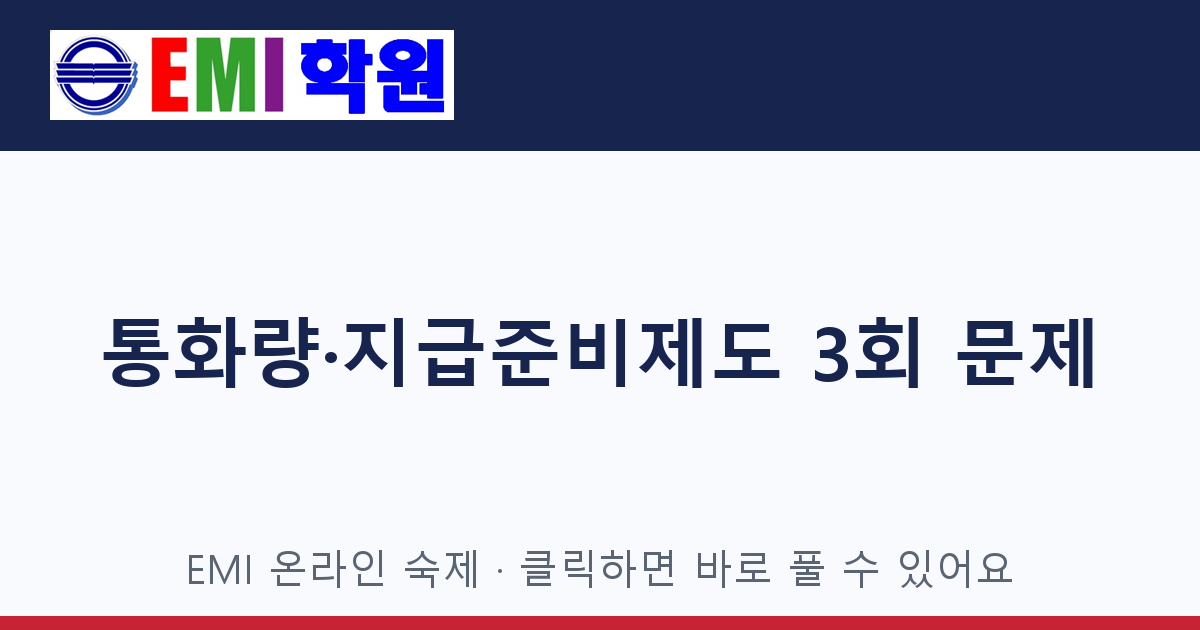
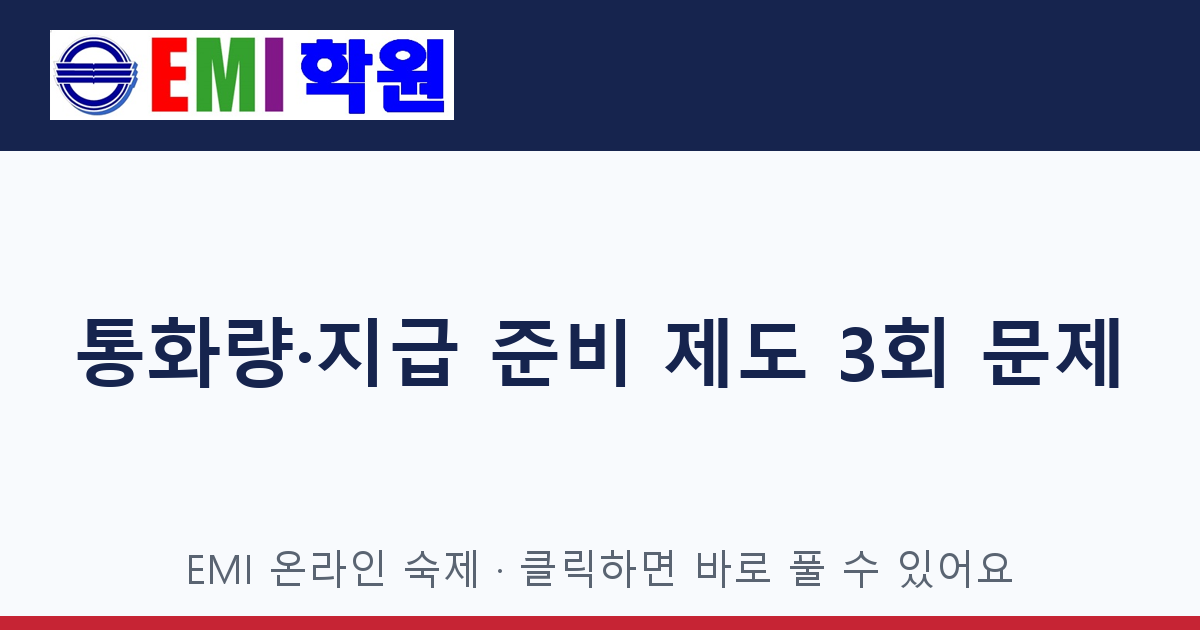
cards: tong3

Changed region(s): [[0.5242, 0.4825, 0.9558, 0.6333], [0.0617, 0.4825, 0.4008, 0.6333]]

diff --git a/tong3.html b/tong3.html
@@ -1,20 +1,20 @@
 <!doctype html><html lang="ko"><head><meta charset="utf-8">
 <meta name="viewport" content="width=device-width, initial-scale=1">
-<title>통화량·지급준비제도 3회 숙제</title>
+<title>통화량·지급 준비 제도 3회 숙제 (변형 1~10번)</title>
 <meta name="description" content="EMI 온라인 숙제 · 클릭하면 바로 풀 수 있어요 (제출 결과는 선생님에게 전송됩니다)">
 <meta property="og:type" content="website">
-<meta property="og:title" content="통화량·지급준비제도 3회 숙제">
+<meta property="og:title" content="통화량·지급 준비 제도 3회 숙제 (변형 1~10번)">
 <meta property="og:description" content="EMI 온라인 숙제 · 클릭하면 바로 풀 수 있어요 (제출 결과는 선생님에게 전송됩니다)">
 <meta property="og:image" content="https://yanga1052-del.github.io/emi-hw-preview/img/tong3.png">
 <meta property="og:url" content="https://yanga1052-del.github.io/emi-hw-preview/tong3.html">
 <meta name="twitter:card" content="summary_large_image">
-<meta name="twitter:title" content="통화량·지급준비제도 3회 숙제">
+<meta name="twitter:title" content="통화량·지급 준비 제도 3회 숙제 (변형 1~10번)">
 <meta name="twitter:description" content="EMI 온라인 숙제 · 클릭하면 바로 풀 수 있어요 (제출 결과는 선생님에게 전송됩니다)">
 <meta name="twitter:image" content="https://yanga1052-del.github.io/emi-hw-preview/img/tong3.png">
 <meta http-equiv="refresh" content="0; url=https://script.google.com/macros/s/AKfycbyF3ateTjzvvQgbUPQ1zHatpe2qTKi0NUpeD05WZu_OVzvtxLwxgMTxlddT3Mv3tvPU/exec?hw=tong3">
 <style>body{font-family:'Malgun Gothic',sans-serif;background:#f6f8fb;color:#1a2432;display:flex;min-height:100vh;align-items:center;justify-content:center;margin:0}
 .card{background:#fff;border-radius:16px;box-shadow:0 8px 30px rgba(20,30,70,.12);padding:40px 44px;text-align:center;max-width:460px}
 h1{color:#16244e;font-size:22px;margin:.2em 0 .6em} p{color:#5a6472} a{display:inline-block;margin-top:18px;background:#16244e;color:#fff;text-decoration:none;padding:13px 26px;border-radius:10px;font-weight:bold}</style>
-</head><body><div class="card"><h1>통화량·지급준비제도 3회 숙제</h1><p>잠시 후 숙제 페이지로 이동합니다.<br>이동하지 않으면 아래 버튼을 눌러 주세요.</p>
+</head><body><div class="card"><h1>통화량·지급 준비 제도 3회 숙제 (변형 1~10번)</h1><p>잠시 후 숙제 페이지로 이동합니다.<br>이동하지 않으면 아래 버튼을 눌러 주세요.</p>
 <a href="https://script.google.com/macros/s/AKfycbyF3ateTjzvvQgbUPQ1zHatpe2qTKi0NUpeD05WZu_OVzvtxLwxgMTxlddT3Mv3tvPU/exec?hw=tong3">숙제 풀러 가기 →</a></div>
 <script>location.replace("https://script.google.com/macros/s/AKfycbyF3ateTjzvvQgbUPQ1zHatpe2qTKi0NUpeD05WZu_OVzvtxLwxgMTxlddT3Mv3tvPU/exec?hw=tong3");</script></body></html>

diff --git a/index.html b/index.html
@@ -19,7 +19,7 @@
 <li><a href="imdae3.html">임대차보호법 3회 숙제</a></li>
 <li><a href="tong1.html">통화량·지급 준비 제도 1회 숙제 (변형 1~10번)</a></li>
 <li><a href="tong2.html">통화량·지급 준비 제도 2회 숙제 (변형 1~10번)</a></li>
-<li><a href="tong3.html">통화량·지급준비제도 3회 숙제</a></li>
+<li><a href="tong3.html">통화량·지급 준비 제도 3회 숙제 (변형 1~10번)</a></li>
 <li><a href="suso3.html">수소 전기차 3회 숙제</a></li>
 <li><a href="theory1.html">공통국어2 작문 이론 [4회고사 대비] 1회 숙제</a></li>
 <li><a href="theory2.html">공통국어2 작문 이론 [4회고사 대비] 2회 숙제</a></li>
